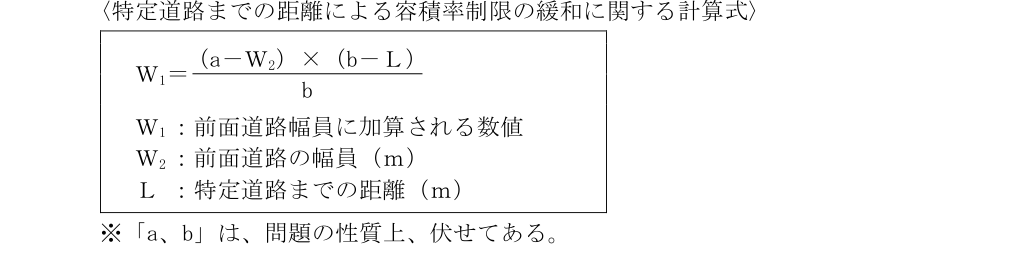
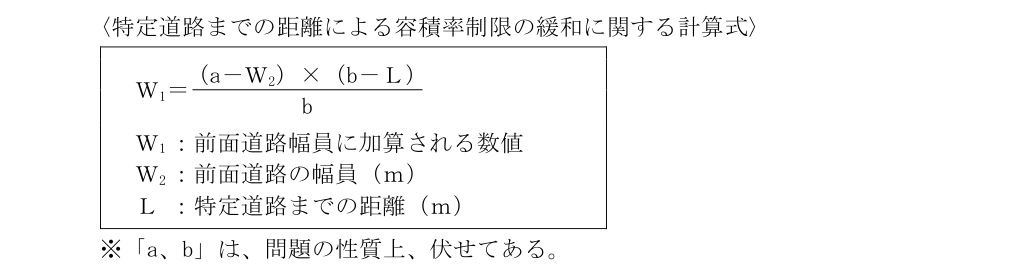
Complete FP1 applied reference figures

diff --git a/lib/questions/practice-session.ts b/lib/questions/practice-session.ts
@@ -52,7 +52,7 @@ export function practiceSessionLabel(session: Session, exam?: ExamCode): string 
     if (session === "am2") return "建築法規";
     if (session === "pm") return "建築設備";
   }
-  if (exam === "fp1") return EXAM_CONFIGS[exam].sessions.find(item => item.session === session)?.label ?? session;
+  if (exam === "fp1" && (session === "practical" || session === "gakka-II")) return EXAM_CONFIGS[exam].sessions.find(item => item.session === session)?.label ?? session;
   if (exam === "chizai2" && session === "practical") return "実技";
   if (exam === "kisho" && session === "ippan") return "学科一般";
   if (exam === "kisho" && session === "senmon") return "学科専門";
